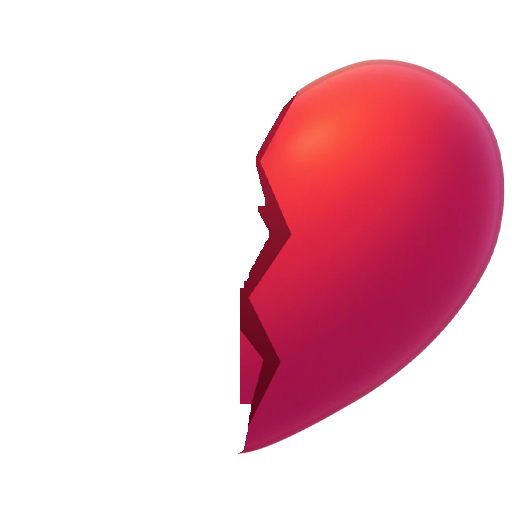
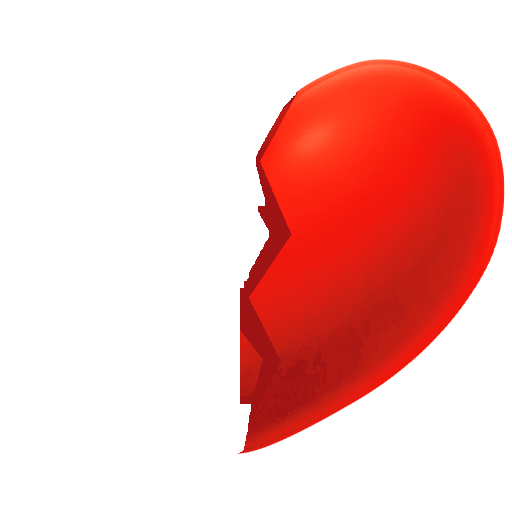
Checkpoint: HUD bar, nav polish, recolours to reference ramps
- Top HUD bar (HudBar.cs + Resources/UI/HudBar): bevelled purple bar, gold portrait placeholder,
  lives on the heart (HeartsManager, Full / next-heart timer), coin counter + store "+",
  centred at 8.2% of screen height below the safe area. LevelMapPanel.USE_HUD_BAR switch.
- Nav bar: purple desaturated to 74%; last tab opens Settings (dome moves there, re-centres on close)
- Level button raised 70px; pill Play face 25% bigger band inset
- Recoloured to reference ramps: heart (HUD + continue hearts), coin + coin spin, gem,
  green armed tile, goal check, rocket + dynamite red (rocket/dynamite pending approval)
- Game background toned like the map (sat x0.85, bright x0.92)
- WDLog.VERBOSE: noisy per-tile/per-frame diagnostics muted (editor frame drops)
- Orphan-tile check walked RulesEngine.ROWS (5 on the menu) -> false "54 orphans"; now the whole array

TEMP diagnostics still in - strip before a build.

Changed region(s): [[0.4688, 0.0938, 1.0, 0.9062]]

diff --git a/Assets/Scripts/WordDrop/HudBar.cs b/Assets/Scripts/WordDrop/HudBar.cs
@@ -1,0 +1,200 @@
+using System;
+using TMPro;
+using UnityEngine;
+using UnityEngine.UI;
+
+namespace WordDrop
+{
+    /// <summary>TOP HUD BAR on the level map (2026-10-27 Spencer: "a bevelled HUD bar ... purple bar, creme panels to display
+    /// numbers"). One pre-rendered bar (Resources/UI/HudBar/hud_bar.png: frame, cream panels, gold portrait ring + placeholder
+    /// avatar, contact shadow) plus the heart, coin and '+' as their own sprites, all built by
+    /// WordDrop_Art/vector_buttons/hud/hud_bar.py (EXPORT_DIR). Every position here is in that script's 1179 x 250 design
+    /// space (see hud_layout.json next to the art) and is applied as ANCHORS, so the whole bar scales with the screen width.
+    /// The numbers are live text:
+    ///   - heart: lives left ON the heart (cream, heart-dark outline), and "Full" or the time to the next heart in its panel
+    ///     (HeartsManager: 5 lives, one every 30 min) - ticks every half second while the bar is alive;
+    ///   - coins: set by LevelMapPanel, which also flies the reward coins into <see cref="CoinIcon"/>.</summary>
+    public class HudBar : MonoBehaviour
+    {
+        // design space (hud_bar.py: W1, H1) and the spots it exported
+        private const float DW = 1179f, DH = 250f;
+        private const float BAR_TOP = 28f, BAR_CY = 114f;                 // bar box 28..200, portrait centre 114
+        private const float CENTER_FRAC = 0.082f;                         // bar centre at 8.2% of screen height (Spencer's RK ref)
+        private static readonly Color INK = new Color32(0x41, 0x1A, 0x6B, 0xFF);           // dark purple numbers
+        private static readonly Color COUNT_OUTLINE = new Color32(0x73, 0x17, 0x26, 0xFF); // the heart's own dark (ref '5')
+        private static readonly Color CREAM_TOP = new Color32(0xFF, 0xFA, 0xE0, 0xFF), CREAM_BOT = new Color32(0xFC, 0xEE, 0xC4, 0xFF);
+
+        public TextMeshProUGUI HeartCount { get; private set; }
+        public TextMeshProUGUI HeartLabel { get; private set; }
+        public TextMeshProUGUI CoinLabel { get; private set; }
+        public RectTransform HeartIcon { get; private set; }
+        public RectTransform CoinIcon { get; private set; }
+        public Button PlusButton { get; private set; }
+        public Button PortraitButton { get; private set; }
+
+        private RectTransform _rt, _canvasRT;
+        private readonly System.Collections.Generic.List<(TextMeshProUGUI t, float em)> _texts = new System.Collections.Generic.List<(TextMeshProUGUI, float)>();
+        private float _k = -1f;
+        private float _nextTick;
+
+        public static HudBar Create(Transform parent)
+        {
+            var go = new GameObject("HudBar", typeof(RectTransform), typeof(Image));
+            go.transform.SetParent(parent, false);
+            var hb = go.AddComponent<HudBar>();
+            if (!hb.Build()) { Destroy(go); return null; }
+            return hb;
+        }
+
+        private bool Build()
+        {
+            var bar = Load("hud_bar"); var heart = Load("hud_heart"); var coin = Load("hud_coin"); var plus = Load("hud_plus");
+            if (bar == null || heart == null || coin == null || plus == null) { Debug.LogWarning("[HudBar] art missing in Resources/UI/HudBar"); return false; }
+
+            _rt = (RectTransform)transform;
+            _rt.anchorMin = new Vector2(0f, 1f); _rt.anchorMax = new Vector2(1f, 1f);
+            _rt.pivot = new Vector2(0.5f, 1f);
+            _rt.offsetMin = _rt.offsetMax = Vector2.zero;
+            var fit = gameObject.AddComponent<AspectRatioFitter>();
+            fit.aspectMode = AspectRatioFitter.AspectMode.WidthControlsHeight;
+            fit.aspectRatio = DW / DH;
+            var img = GetComponent<Image>(); img.sprite = bar; img.raycastTarget = false;
+
+            // portrait (placeholder for now) - tappable later for the profile screen
+            PortraitButton = Hit("Portrait", 116f, 114f, 180f, 180f);
+
+            HeartIcon = MakeIcon("Heart", heart, 314f, 110f, 192f);
+            HeartCount = Text("HeartCount", 314f, 106f, 50f, 100f);
+            StyleCount(HeartCount);
+            HeartLabel = Text("HeartLabel", 487f, 113f, 46f, 230f);
+
+            CoinIcon = MakeIcon("Coin", coin, 746f, 110f, 183f);
+            var plusRT = MakeIcon("Plus", plus, 786f, 148f, 103.5f);
+            PlusButton = Hit("PlusHit", 786f, 148f, 80f, 80f);
+            plusRT.SetAsLastSibling(); PlusButton.transform.SetAsLastSibling();
+            CoinLabel = Text("CoinLabel", 965f, 113f, 46f, 290f);
+
+            RefreshHearts();
+            return true;
+        }
+
+        // Sprite import (ButtonArtImporter) or, if the PNG came in as a plain texture, a sprite made from it - the art
+        // landed before the importer knew this folder on 2026-10-27 and the bar silently fell back to the old pills.
+        private static Sprite Load(string name)
+        {
+            var s = Resources.Load<Sprite>("UI/HudBar/" + name);
+            if (s != null) return s;
+            var t = Resources.Load<Texture2D>("UI/HudBar/" + name);
+            if (t == null) return null;
+            Debug.LogWarning($"[HudBar] {name} imported as a Texture, not a Sprite - using it anyway (Reimport UI/HudBar to fix)");
+            return Sprite.Create(t, new Rect(0, 0, t.width, t.height), new Vector2(0.5f, 0.5f), 100f);
+        }
+
+        private void OnEnable() { _nextTick = 0f; }
+
+        private void Update()
+        {
+            Place();
+            if (Time.unscaledTime < _nextTick) return;
+            _nextTick = Time.unscaledTime + 0.5f;
+            RefreshHearts();
+        }
+
+        /// <summary>Lives on the heart; "Full" or the countdown to the next heart in the panel.</summary>
+        public void RefreshHearts()
+        {
+            if (HeartCount == null) return;
+            int n = HeartsManager.Current;
+            HeartCount.text = n.ToString();
+            if (n >= HeartsManager.MAX_HEARTS) HeartLabel.text = "Full";
+            else
+            {
+                TimeSpan t = HeartsManager.TimeUntilNextHeart;
+                HeartLabel.text = t.TotalHours >= 1 ? $"{(int)t.TotalHours}:{t.Minutes:00}:{t.Seconds:00}" : $"{t.Minutes}:{t.Seconds:00}";
+            }
+        }
+
+        // Vertical placement: the bar's centre at 8.2% of the screen height, but its top edge never above the safe area.
+        private void Place()
+        {
+            if (_canvasRT == null) { var c = GetComponentInParent<Canvas>(); if (c == null) return; _canvasRT = (RectTransform)c.rootCanvas.transform; }
+            float ch = _canvasRT.rect.height, h = _rt.rect.height;
+            if (ch < 1f || h < 1f) return;
+            float k = h / DH;                                                     // canvas units per design px
+            float top = ch * CENTER_FRAC - BAR_CY * k;                            // rect top below the screen top
+            Rect sa = Screen.safeArea;
+            float inset = Screen.height > 0 ? (Screen.height - sa.yMax) / Screen.height * ch : 0f;
+            top = Mathf.Max(top, inset - BAR_TOP * k);                            // the bar itself stays below the notch
+            if (Mathf.Abs(k - _k) > 0.0001f) { _k = k; foreach (var (t, em) in _texts) if (t != null) t.fontSize = em * k; }
+            var p = new Vector2(0f, -top);
+            if ((_rt.anchoredPosition - p).sqrMagnitude > 0.01f) _rt.anchoredPosition = p;
+        }
+
+        // ---- builders: design-space centre + size -> anchors, so everything scales with the bar ----
+        private RectTransform Box(string name, float cx, float cy, float w, float h, params Type[] comps)
+        {
+            var go = new GameObject(name, comps); go.transform.SetParent(transform, false);
+            var r = (RectTransform)go.transform;
+            r.anchorMin = new Vector2((cx - w / 2f) / DW, 1f - (cy + h / 2f) / DH);
+            r.anchorMax = new Vector2((cx + w / 2f) / DW, 1f - (cy - h / 2f) / DH);
+            r.offsetMin = r.offsetMax = Vector2.zero;
+            return r;
+        }
+
+        private RectTransform MakeIcon(string name, Sprite s, float cx, float cy, float box)
+        {
+            var r = Box(name, cx, cy, box, box, typeof(RectTransform), typeof(Image));
+            var im = r.GetComponent<Image>(); im.sprite = s; im.raycastTarget = false; im.preserveAspect = true;
+            return r;
+        }
+
+        private Button Hit(string name, float cx, float cy, float w, float h)
+        {
+            var r = Box(name, cx, cy, w, h, typeof(RectTransform), typeof(Image), typeof(Button));
+            r.GetComponent<Image>().color = new Color(0, 0, 0, 0);
+            var b = r.GetComponent<Button>(); b.transition = Selectable.Transition.None;
+            return b;
+        }
+
+        // A text box one em tall for the measured cap height (WordSlop cap = 0.70 em); auto-size keeps it to that box.
+        private TextMeshProUGUI Text(string name, float cx, float cy, float cap, float width)
+        {
+            float em = cap / 0.70f;
+            var r = Box(name, cx, cy, width, em * 1.15f, typeof(RectTransform), typeof(TextMeshProUGUI));
+            var t = r.GetComponent<TextMeshProUGUI>();
+            // the BUTTON cut (bold, the one the mockup and every ArtButton label use), not the regular "WordSlop SDF"
+            var f = Resources.Load<TMP_FontAsset>("WordSlop Button SDF") ?? Resources.Load<TMP_FontAsset>(GameFont.WORDSLOP_FONT) ?? GameFont.GetUITMP();
+            if (f != null) t.font = f;
+            // centred on the GLYPHS (like the mockup), not on the line box
+            t.color = INK; t.alignment = TextAlignmentOptions.CenterGeoAligned; t.raycastTarget = false;
+            t.enableWordWrapping = false; t.overflowMode = TextOverflowModes.Overflow;
+            t.enableAutoSizing = false;                   // sized from the bar in Place(): em = cap / 0.70 (auto-size fit the LINE box, ~25% small)
+            _texts.Add((t, em));
+            return t;
+        }
+
+        // The number on the heart: cream with a thin outline + a small straight-down drop in the heart's own dark (the ref "5",
+        // scaled down twice by Spencer: outline ~8% of the cap, drop ~2%).
+        private static void StyleCount(TextMeshProUGUI t)
+        {
+            t.enableVertexGradient = true;
+            t.colorGradient = new VertexGradient(CREAM_TOP, CREAM_TOP, CREAM_BOT, CREAM_BOT);
+            t.color = Color.white;
+            var m = new Material(t.fontSharedMaterial) { name = "HudBar HeartCount" };
+            m.EnableKeyword("OUTLINE_ON");
+            m.SetColor("_OutlineColor", COUNT_OUTLINE);
+            m.SetFloat("_OutlineWidth", 0.22f);
+            m.SetFloat("_FaceDilate", 0.18f);
+            m.EnableKeyword("UNDERLAY_ON");
+            m.SetColor("_UnderlayColor", COUNT_OUTLINE);
+            m.SetFloat("_UnderlayOffsetX", 0.12f);
+            m.SetFloat("_UnderlayOffsetY", -0.3f);
+            m.SetFloat("_UnderlayDilate", 0.4f);
+            m.SetFloat("_UnderlaySoftness", 0f);
+            ShaderUtilities.UpdateShaderRatios(m);
+            t.fontSharedMaterial = m;
+        }
+    }
+}
+
+// recompile nudge 2026-10-27 12:46 (Unity cached these at 12:40:16 and missed the 12:40:17 save)

diff --git a/Assets/Scripts/WordDrop/LevelMapPanel.cs b/Assets/Scripts/WordDrop/LevelMapPanel.cs
@@ -1308,7 +1308,7 @@ namespace WordDrop
         // Measured off Royal Kingdom's main screen for the art button: the frame spans 44.8% of the width, centred
         // 80.6% of the way down (= 0.306 below centre). The old button's own measured numbers stay for the old button.
         private float PlayWFrac  => _artBtn != null ? 0.448f : PLAY_W_FRAC;
-        private float PlayYFrac  => _artBtn != null ? 0.306f : PLAY_Y_FRAC;
+        private float PlayYFrac  => _artBtn != null ? 0.279f : PLAY_Y_FRAC;   // 2026-10-27 Spencer: raised 70px of 2556 (was 0.306) - room above the nav dome
         private float PlayAspect => _artBtn != null ? _artBtn.FrameAspect : PLAY_ASPECT;
 
         private Vector2 PlayButtonSize()
@@ -1996,8 +1996,25 @@ namespace WordDrop
         // ── HUD panels (Candy-Crush-map layout: hearts + coins + settings up top; bottom bar reserved) ──
         private const float HUD_OVER = 60f; // how far the bars bleed PAST each screen edge (outer corners off-screen)
 
+        public static bool USE_HUD_BAR = true;   // 2026-10-27 Spencer: the purple bevelled HUD bar (HudBar.cs); false = the old pills + gear
+        public const int SETTINGS_TAB = 4;       // with the HUD bar the gear is gone from the top: settings live on the nav bar's last tab
+        private HudBar _hudBar;
+
         private void BuildTopHud(Transform parent)
         {
+            if (USE_HUD_BAR)
+            {
+                _hudBar = HudBar.Create(parent);
+                if (_hudBar != null)
+                {
+                    _heartsText = null;                       // the bar shows LIVES itself (HeartsManager), not continues
+                    _coinsText = _hudBar.CoinLabel;
+                    _coinsIconRT = _hudBar.CoinIcon;          // the coin cascade still flies into the coin
+                    _hudBar.PlusButton.onClick.AddListener(OpenCoinStore);
+                    RefreshHud();
+                    return;
+                }
+            }
             // The pink bar is skipped on the painted map so the artwork runs to the top of the
             // screen. The PILLS below are separate children and are unaffected — hearts, coins
             // and settings still sit in the same places, now floating on the art. TOP_HUD_H is
@@ -2088,7 +2105,26 @@ namespace WordDrop
         private void BuildBottomHud(Transform parent)
         {
             // 2026-10-27 Spencer: the purple dome NAV BAR (v3 art, five tab states). Falls back to the old navy bar if the art is missing.
-            if (USE_NAV_BAR && NavBar.Create(parent) != null) return;
+            if (USE_NAV_BAR)
+            {
+                var nb = NavBar.Create(parent);
+                if (nb != null)
+                {
+                    // the settings gear moved off the top bar: its last tab opens Settings. The dome moves onto that tab while
+                    // Settings is open and re-centres on the MIDDLE tab when it closes (Spencer 2026-10-27).
+                    if (_hudBar != null)
+                    {
+                        nb.OnTabSelected = t =>
+                        {
+                            if (t != SETTINGS_TAB) return;
+                            void Back() { SettingsModal.Closed -= Back; if (nb != null && nb.Selected == SETTINGS_TAB) nb.Select(NavBar.DefaultTab, false); }
+                            SettingsModal.Closed -= Back; SettingsModal.Closed += Back;
+                            OpenSettings();
+                        };
+                    }
+                    return;
+                }
+            }
             // Reserved bar — we fill this later (garden/world shortcuts, daily, shop, etc.).
             BuildFullBleedBar(parent, "BottomHud", HUD_BOTTOM, top: false, visibleH: BOTTOM_HUD_H, radius: 30);
         }
@@ -2189,6 +2225,7 @@ namespace WordDrop
                 int left = Mathf.Max(0, max - used);
                 _heartsText.text = $"{left}/{max}"; // heart is now the soulgem icon in the pill, not a glyph
             }
+            _hudBar?.RefreshHearts();
             if (_coinsText != null)
             {
                 // Show the PRE-reward total while a coin cascade is queued — the flying coins tick it up to the
@@ -2388,3 +2425,5 @@ namespace WordDrop
         }
     }
 }
+
+// recompile nudge 2026-10-27 12:46 (Unity cached these at 12:40:16 and missed the 12:40:17 save)

diff --git a/Assets/Scripts/WordDrop/GridManager.cs b/Assets/Scripts/WordDrop/GridManager.cs
@@ -501,26 +501,35 @@ namespace WordDrop
         ///
         /// Debug-only and not cheap (FindObjectsByType); BoardInvariants calls it on its
         /// 0.35s tick, only while the board is settled.</summary>
+        private static int s_lastOrphanSig;
         public int ReportSceneOrphanTiles()
         {
             var all = Object.FindObjectsByType<Tile>(FindObjectsSortMode.None);
             if (all == null || all.Length == 0) return 0;
 
+            // Walk the WHOLE array, not RulesEngine.ROWS: off a level (main menu) ROWS drops to 5, so a full 9x11 board's rows
+            // 5-10 were reported as 54 "orphans" every time - a false alarm (2026-10-27; RebuildGrid already clears to MAX_ROWS).
             var known = new HashSet<Tile>();
-            for (int c = 0; c < RulesEngine.COLS; c++)
-            for (int r = 0; r < RulesEngine.ROWS; r++)
+            for (int c = 0; c < _tiles.GetLength(0); c++)
+            for (int r = 0; r < _tiles.GetLength(1); r++)
                 if (_tiles[c, r] != null) known.Add(_tiles[c, r]);
             foreach (var pooled in _tilePool) if (pooled != null) known.Add(pooled);
 
-            int orphans = 0;
+            // 2026-10-27: ONE summary line per new orphan set (was one LogError with a stack trace per tile - 54 at once, every
+            // 0.35s tick, which stuttered the editor). Same information; the first 12 are named.
+            int orphans = 0; var names = new System.Text.StringBuilder(); int sig = 17;
             foreach (var t in all)
             {
                 if (t == null || known.Contains(t)) continue;
                 if (!t.gameObject.activeInHierarchy) continue;   // parked/inactive is fine
-                orphans++;
-                Debug.LogError($"[Invariant] SCENE ORPHAN tile '{t.Letter}' at col={t.Col} row={t.Row} " +
-                               $"worldPos={t.transform.position} name='{t.gameObject.name}' — " +
-                               $"in the scene but in NEITHER _tiles[] NOR the pool. Nothing can clean it up.");
+                orphans++; sig = sig * 31 + t.GetInstanceID();
+                if (orphans <= 12) names.Append($"\n  '{t.Letter}' col={t.Col} row={t.Row} pos={t.transform.position} name='{t.gameObject.name}'");
+            }
+            if (orphans > 0 && sig != s_lastOrphanSig)
+            {
+                s_lastOrphanSig = sig;
+                Debug.LogError($"[Invariant] {orphans} SCENE ORPHAN tile(s) - in the scene but in NEITHER _tiles[] NOR the pool, " +
+                               $"nothing can clean them up (frame {Time.frameCount}):{names}{(orphans > 12 ? $"\n  ... +{orphans - 12} more" : "")}");
             }
             return orphans;
         }

diff --git a/Assets/Scripts/WordDrop/WDLog.cs b/Assets/Scripts/WordDrop/WDLog.cs
@@ -26,10 +26,25 @@ namespace WordDrop
         /// <summary>Bot playtester: thousands of simulated games would bury the real log. Muted while it runs.</summary>
         public static bool Muted;
 
-        [Conditional("UNITY_EDITOR"), Conditional("WORDROP_LOG")]
-        public static void Log(object message) { if (!Muted) UnityEngine.Debug.Log(message); }
+        /// <summary>2026-10-27 (Spencer: frame drops while playing). Debug.Log is slow in the editor and these tags fire per tile,
+        /// per frame or per word - ~9,500 lines in one session. They stay silent unless VERBOSE is on. Everything else still logs.</summary>
+        public static bool VERBOSE = false;
+        private static readonly string[] NOISY = {
+            "[Tile] ResetForPool", "[EntryDiag]", "[EntryPerf]", "[PayoutTier]", "[SFX]", "[VFX]", "[FX]", "[FX-",
+            "[ExplosionTier]", "[Meltdown]",
+        };
+        private static bool Quiet(object message)
+        {
+            if (Muted) return true;
+            if (VERBOSE || !(message is string s)) return false;
+            foreach (var p in NOISY) if (s.StartsWith(p, System.StringComparison.Ordinal)) return true;
+            return false;
+        }
 
         [Conditional("UNITY_EDITOR"), Conditional("WORDROP_LOG")]
-        public static void Log(object message, UnityEngine.Object context) { if (!Muted) UnityEngine.Debug.Log(message, context); }
+        public static void Log(object message) { if (!Quiet(message)) UnityEngine.Debug.Log(message); }
+
+        [Conditional("UNITY_EDITOR"), Conditional("WORDROP_LOG")]
+        public static void Log(object message, UnityEngine.Object context) { if (!Quiet(message)) UnityEngine.Debug.Log(message, context); }
     }
 }

diff --git a/Assets/Scripts/WordDrop/SettingsModal.cs b/Assets/Scripts/WordDrop/SettingsModal.cs
@@ -200,8 +200,12 @@ namespace WordDrop
             UIAnimations.DropInWithBounce(rt, speedMult: MODAL_SPEED_MULT);
         }
 
+        /// <summary>Fired when the modal starts closing (the level map's nav bar moves its dome back off the settings tab).</summary>
+        public static event System.Action Closed;
+
         public void Hide()
         {
+            Closed?.Invoke();
             DismissConfirm(); // tear down any open confirm overlay so it can't outlive the modal
 
             // Reverse of the converge-out animation in Show — booster bench
@@ -1019,3 +1023,5 @@ namespace WordDrop
         }
     }
 }
+
+// recompile nudge 2026-10-27 12:46 (Unity cached these at 12:40:16 and missed the 12:40:17 save)

diff --git a/Assets/Scripts/Editor/ButtonArtImporter.cs b/Assets/Scripts/Editor/ButtonArtImporter.cs
@@ -9,7 +9,8 @@ public class ButtonArtImporter : AssetPostprocessor
 {
     void OnPreprocessTexture()
     {
-        bool nav = assetPath.StartsWith("Assets/Resources/UI/NavBar/");   // 2026-10-27: the bottom nav bar (2160 wide, 2x)
+        bool nav = assetPath.StartsWith("Assets/Resources/UI/NavBar/")    // 2026-10-27: the bottom nav bar (2160 wide, 2x)
+                || assetPath.StartsWith("Assets/Resources/UI/HudBar/");   //             and the top HUD bar (2358 wide, 2x)
         if (!assetPath.StartsWith("Assets/Resources/UI/Buttons/") && !nav) return;
         var ti = (TextureImporter)assetImporter;
         ti.textureType         = TextureImporterType.Sprite;
